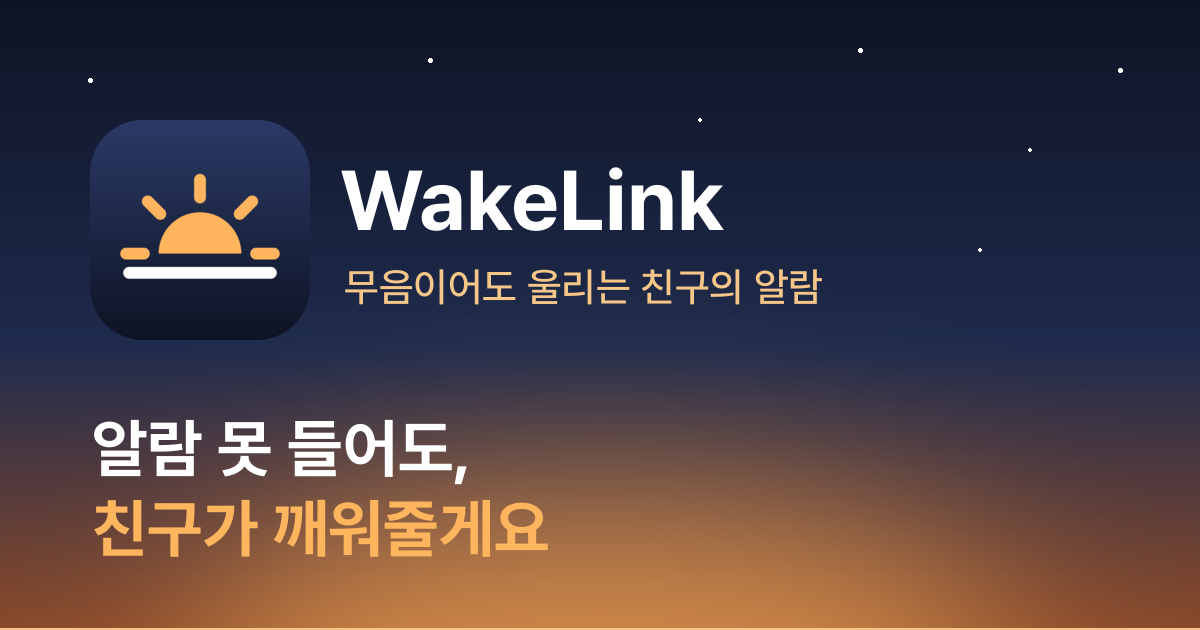
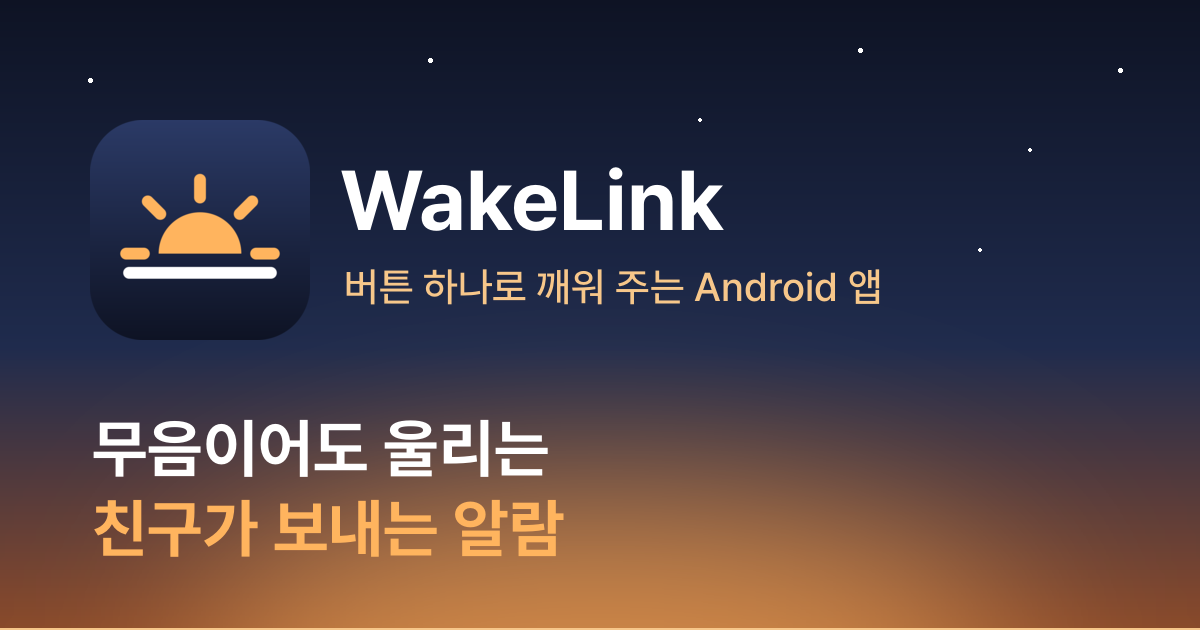
Website: new Korean headline and lighter tone
"무음이어도 울리는 / 친구가 보내는 알람" replaces "알람 못 들어도, 친구가
깨워줄게요" (page, link preview image, README banner alt). Korean copy
follows the app's tone, mockups use the app's new strings, and the update
FAQ (both languages) now mentions the new-version notification.

Changed region(s): [[0.0617, 0.6635, 0.4933, 0.9048], [0.2775, 0.4222, 0.74, 0.4825]]

diff --git a/server/internal/web/templates/ko/index.html b/server/internal/web/templates/ko/index.html
@@ -1,5 +1,5 @@
-{{define "title"}}WakeLink — 알람 못 들어도, 친구가 깨워줄게요{{end}}
-{{define "description"}}무음 모드여도 믿는 사람이 버튼 하나로 내 폰 알람을 울려 깨워주는 Android 앱. 서로 동의한 사람끼리만 연결돼요.{{end}}
+{{define "title"}}WakeLink — 무음이어도 울리는, 친구가 보내는 알람{{end}}
+{{define "description"}}믿는 사람이 버튼 하나로 내 폰에 알람을 울려 주는 Android 앱. 무음 모드에서도 울리고, 서로 동의한 사람끼리만 연결돼요.{{end}}
 {{define "content"}}
 <header class="hero">
   <div class="sky" aria-hidden="true">
@@ -16,8 +16,8 @@
     <div class="hero-grid">
       <div class="hero-copy">
         <p class="eyebrow">알람 끄고 다시 잠든 친구에게</p>
-        <h1><span class="line">알람 못 들어도,</span> <span class="line accent">친구가 깨워줄게요</span></h1>
-        <p class="lead">무음 모드여도 믿는 사람이 버튼 하나로 내 폰에서 큰 알람을 울려줘요. 진짜 울렸는지도 바로 확인돼요.</p>
+        <h1><span class="line">무음이어도 울리는</span> <span class="line accent">친구가 보내는 알람</span></h1>
+        <p class="lead">믿는 사람이 버튼 하나로 내 폰에 큰 알람을 울리고, 실제로 울렸는지까지 바로 확인해요.</p>
         <div class="cta-row">
           <a class="btn btn-primary" href="{{.DownloadHref}}">
             <svg viewBox="0 0 24 24" width="20" height="20" aria-hidden="true"><path fill="currentColor" d="M12 3a1 1 0 0 1 1 1v9.59l3.3-3.3a1 1 0 1 1 1.4 1.42l-5 5a1 1 0 0 1-1.4 0l-5-5a1 1 0 1 1 1.4-1.42l3.3 3.3V4a1 1 0 0 1 1-1ZM5 19a1 1 0 1 0 0 2h14a1 1 0 1 0 0-2H5Z"/></svg>
@@ -33,7 +33,7 @@
           <div class="screen screen-ringing">
             <div class="ring-time">06:42</div>
             <div class="ring-sun"><span></span></div>
-            <p class="ring-who"><b>지민</b>님이 깨우고 있어요</p>
+            <p class="ring-who"><b>지민</b>님이 깨우는 중</p>
             <div class="ring-stop">알람 끄기</div>
           </div>
         </div>
@@ -43,22 +43,22 @@
             <div class="card">
               <div class="card-row">
                 <span class="avatar avatar-1">지</span>
-                <div class="card-text"><b>지민</b><small>서로 깨울 수 있어요</small></div>
+                <div class="card-text"><b>지민</b><small>서로 깨우기 가능</small></div>
               </div>
               <div class="wake-btn">깨우기</div>
-              <div class="pill pill-ok">● 지민님 폰에서 알람이 울리고 있어요</div>
+              <div class="pill pill-ok">● 지민님 폰에서 울리는 중</div>
             </div>
             <div class="card">
               <div class="card-row">
                 <span class="avatar avatar-3">엄</span>
-                <div class="card-text"><b>엄마</b><small>상대만 나를 깨울 수 있어요</small></div>
+                <div class="card-text"><b>엄마</b><small>상대만 깨울 수 있음</small></div>
               </div>
               <div class="wake-btn wake-btn-off">깨우기 꺼져 있음</div>
             </div>
             <div class="card">
               <div class="card-row">
                 <span class="avatar avatar-5">현</span>
-                <div class="card-text"><b>현우</b><small>서로 깨울 수 있어요</small></div>
+                <div class="card-text"><b>현우</b><small>서로 깨우기 가능</small></div>
               </div>
               <div class="wake-btn">깨우기</div>
             </div>
@@ -78,17 +78,17 @@
         <li class="step">
           <span class="step-num">1</span>
           <h3>둘 다 앱 설치</h3>
-          <p>이름만 정하면 돼요. 전화번호도, 이메일도 필요 없어요.</p>
+          <p>이름만 정하면 끝. 전화번호도, 이메일도 필요 없어요.</p>
         </li>
         <li class="step">
           <span class="step-num">2</span>
           <h3>초대 코드로 연결</h3>
-          <p>한 사람이 만든 코드를 다른 사람이 직접 입력해야 연결돼요. 링크로 보내도 돼요.</p>
+          <p>한 사람이 만든 코드를 다른 사람이 직접 입력하면 연결 완료. 링크로 보내도 돼요.</p>
         </li>
         <li class="step">
           <span class="step-num">3</span>
           <h3>깨우기 버튼 한 번</h3>
-          <p>상대 폰에서 알람이 크게 울리고, 실제로 울렸는지 내 화면에 바로 표시돼요.</p>
+          <p>상대 폰에 큰 알람이 울리고, 실제로 울렸는지가 내 화면에 바로 떠요.</p>
         </li>
       </ol>
     </div>
@@ -97,19 +97,19 @@
   <section class="section">
     <div class="wrap">
       <h2>내 소리, 내 사진으로 깨우기</h2>
-      <p class="section-lead">똑같은 알람 소리는 지겨우니까요. 무엇을 울리고 보여줄지 보내는 사람이 고르고, 받는 사람이 허용 범위를 정해요.</p>
+      <p class="section-lead">똑같은 알람 소리는 지겨우니까. 무엇을 울리고 보여 줄지는 보내는 사람이, 허용 범위는 받는 사람이 정해요.</p>
       <div class="features">
         <div class="feature">
           <h3>기본 벨소리 6가지</h3>
-          <p>클래식 비프, 디지털, 차임, 점점 높아지는 음, 종소리, 마림바. 미리 들어보고 고를 수 있어요.</p>
+          <p>클래식 비프, 디지털, 차임, 점점 높아지는 음, 종소리, 마림바 중에서 미리 듣고 선택.</p>
         </div>
         <div class="feature">
           <h3>내 목소리, 내 음악</h3>
-          <p>"일어나!"를 15초까지 녹음하거나, 폰에 있는 오디오 파일을 보낼 수 있어요.</p>
+          <p>"일어나!"를 15초까지 녹음하거나, 폰에 있는 오디오 파일을 그대로 보내기.</p>
         </div>
         <div class="feature">
           <h3>알람 화면에 사진</h3>
-          <p>사진이나 움직이는 GIF를 상대 알람 화면에 띄워요. 카메라로 바로 찍어서 보낼 수도 있어요.</p>
+          <p>사진이나 움직이는 GIF를 상대 알람 화면에. 카메라로 바로 찍어 보낼 수도 있어요.</p>
         </div>
       </div>
     </div>
@@ -120,16 +120,16 @@
       <div>
         <h2>무음 모드여도 울리는 이유</h2>
         <p>폰을 무음으로 해도 시계 앱 알람은 울리죠. 무음 모드는 벨소리와 알림 소리만 끄고 <b>알람 소리는 그대로 두기</b> 때문이에요.</p>
-        <p>WakeLink도 같은 알람 채널로 울려요. 그래서 특별한 권한 없이도 무음·진동 모드를 뚫고 깨울 수 있어요.</p>
-        <p>폰의 알람 볼륨이 작게 되어 있어도 괜찮아요. 울리는 동안은 받는 사람이 정한 WakeLink 볼륨을 쓰고, 끝나면 원래대로 돌려놔요.</p>
-        <p class="muted">방해 금지 모드의 '완전 무음'은 알람까지 막아요. 이것까지 뚫고 싶다면 설정에서 직접 켤 수 있고, 울리는 동안만 바꿨다가 끝나면 원래대로 돌려놔요.</p>
+        <p>WakeLink도 같은 알람 채널을 써서, 특별한 권한 없이 무음·진동 모드에서도 울려요.</p>
+        <p>폰의 알람 볼륨이 작아도, 울리는 동안만 받는 사람이 정한 볼륨으로 바꿨다가 끝나면 되돌려 놓아요.</p>
+        <p class="muted">방해 금지의 '완전 무음'은 알람까지 막아요. 설정에서 켜 두면 이것도 울리는 동안만 풀었다가 다시 돌려놓아요.</p>
       </div>
       <ul class="mode-list" aria-label="모드별 동작">
-        <li><span class="mode-name">소리 모드</span><span class="mode-yes">울려요</span></li>
-        <li><span class="mode-name">진동 모드</span><span class="mode-yes">울려요</span></li>
-        <li><span class="mode-name">무음 모드</span><span class="mode-yes">울려요</span></li>
-        <li><span class="mode-name">방해 금지 (알람 허용)</span><span class="mode-yes">울려요</span></li>
-        <li><span class="mode-name">방해 금지 '완전 무음'</span><span class="mode-opt">설정에서 켜면 울려요</span></li>
+        <li><span class="mode-name">소리 모드</span><span class="mode-yes">울림</span></li>
+        <li><span class="mode-name">진동 모드</span><span class="mode-yes">울림</span></li>
+        <li><span class="mode-name">무음 모드</span><span class="mode-yes">울림</span></li>
+        <li><span class="mode-name">방해 금지 (알람 허용)</span><span class="mode-yes">울림</span></li>
+        <li><span class="mode-name">방해 금지 '완전 무음'</span><span class="mode-opt">설정에서 켜면 울림</span></li>
       </ul>
     </div>
   </section>
@@ -141,27 +141,27 @@
       <div class="features">
         <div class="feature">
           <h3>서로 동의해야 연결</h3>
-          <p>초대 코드를 받은 사람이 직접 입력해야만 연결돼요. 몰래 추가하는 방법은 없어요.</p>
+          <p>초대 코드를 받은 사람이 직접 입력해야만 연결. 몰래 추가하는 방법은 없어요.</p>
         </div>
         <div class="feature">
           <h3>방향별로 따로 허락</h3>
-          <p>"나는 깨울 수 있지만 상대는 나를 못 깨우게"처럼 각자 정할 수 있어요.</p>
+          <p>"나는 깨울 수 있지만 상대는 나를 못 깨우게"처럼 각자 따로 설정.</p>
         </div>
         <div class="feature">
           <h3>언제든 끄거나 끊기</h3>
-          <p>앱 전체를 끄거나, 특정 사람만 막거나, 연결을 아예 끊을 수 있어요.</p>
+          <p>앱 전체 끄기, 특정 사람만 막기, 연결 끊기 모두 언제든 가능.</p>
         </div>
         <div class="feature">
-          <h3>상태가 늘 보여요</h3>
-          <p>지금 깨우기를 받는 중인지 앱 첫 화면 맨 위에 항상 표시되고, 바로 끌 수 있어요.</p>
+          <h3>상태는 늘 첫 화면에</h3>
+          <p>깨우기를 받는 중인지 첫 화면 맨 위에 항상 표시. 거기서 바로 끌 수도 있어요.</p>
         </div>
         <div class="feature">
           <h3>장난 방지</h3>
-          <p>같은 사람에게는 30초에 한 번, 24시간 동안 20번까지만 보낼 수 있어요.</p>
+          <p>같은 사람에게는 30초에 한 번, 24시간에 20번까지만.</p>
         </div>
         <div class="feature">
           <h3>종단간 암호화</h3>
-          <p>보낸 사람 이름, 녹음, 파일, 사진은 받는 사람 폰만 열 수 있게 암호화돼요. 서버는 암호문만 전달하고, 계정을 지우면 모두 삭제돼요.</p>
+          <p>보낸 사람 이름, 녹음, 파일, 사진은 받는 사람 폰만 열 수 있게 암호화. 서버는 암호문만 전달하고, 계정을 지우면 모두 삭제돼요.</p>
         </div>
       </div>
     </div>
@@ -172,7 +172,7 @@
       <h2>자주 묻는 질문</h2>
       <details class="faq">
         <summary>아이폰에서도 쓸 수 있나요?</summary>
-        <p>아직은 Android만 지원해요. 깨우는 사람과 깨워지는 사람 모두 Android 폰에 앱이 있어야 해요.</p>
+        <p>아직은 Android만 지원해요. 깨우는 사람과 깨워지는 사람 모두 Android 폰이 있어야 해요.</p>
       </details>
       <details class="faq">
         <summary>앱은 어떤 언어를 지원하나요?</summary>
@@ -180,19 +180,19 @@
       </details>
       <details class="faq">
         <summary>플레이 스토어에 없는데 설치해도 괜찮나요?</summary>
-        <p>위 버튼으로 받는 APK는 GitHub에 공개된 소스로 빌드되고, 늘 같은 키로 서명돼요. 처음 한 번 브라우저나 파일 앱에 "출처를 알 수 없는 앱 설치"를 허용하면 설치할 수 있어요.</p>
+        <p>위 버튼으로 받는 APK는 GitHub에 공개된 소스로 빌드되고, 늘 같은 키로 서명돼요. 처음 한 번만 브라우저나 파일 앱에 "출처를 알 수 없는 앱 설치"를 허용하면 돼요.</p>
       </details>
       <details class="faq">
         <summary>업데이트는 어떻게 하나요?</summary>
-        <p>앱을 열 때 새 버전이 있으면 알려줘요. 누르면 바로 내려받아 설치 화면이 열려요. 설정 → 앱 업데이트에서 직접 확인할 수도 있어요.</p>
+        <p>새 버전이 나오면 알림이 오고, 누르면 바로 설치 화면까지 열려요. 설정 → 앱 업데이트에서 직접 확인도 가능.</p>
       </details>
       <details class="faq">
         <summary>배터리 절약 때문에 안 울리면 어떡하죠?</summary>
-        <p>앱이 처음 켜질 때 알림, 잠금 화면 전체 화면 알람, 배터리 최적화 제외를 하나씩 안내해요. 나중에 꺼지면 앱을 열 때 다시 알려줘요. 삼성 폰은 '절전 앱' 목록에서도 빼 주세요.</p>
+        <p>앱을 처음 켜면 알림, 잠금 화면 전체 화면 알람, 배터리 최적화 제외를 차례로 안내하고, 나중에 꺼지면 다시 알려 줘요. 삼성 폰은 '절전 앱' 목록에서도 빼 주세요.</p>
       </details>
       <details class="faq">
         <summary>보낸 사진과 녹음은 누가 볼 수 있나요?</summary>
-        <p>깨우기를 받는 사람만요. 올리기 전에 내 폰에서 암호화되고, 그 열쇠는 깨울 때 받는 사람 폰만 열 수 있게 다시 암호화해서 보내요. 서버와 푸시 알림을 전달하는 Google은 내용을 볼 수 없어요. 계정을 지우면 서버에서도 삭제돼요.</p>
+        <p>깨우기를 받는 사람만요. 올리기 전에 내 폰에서 암호화되고, 그 열쇠는 받는 사람 폰만 열 수 있게 봉인해서 보내요. 서버도, 푸시를 전달하는 Google도 내용을 볼 수 없고, 계정을 지우면 서버에서도 지워져요.</p>
       </details>
       <details class="faq">
         <summary>폰을 재부팅하고 잠금을 아직 안 풀었어도 울리나요?</summary>
@@ -200,7 +200,7 @@
       </details>
       <details class="faq">
         <summary>깨우기를 보냈는데 상대 폰이 꺼져 있으면요?</summary>
-        <p>보낸 쪽 화면에 "울림 미확인"으로 표시돼요. 상대 폰에서 실제로 소리가 나기 시작해야만 "울림 확인됨"이 떠요.</p>
+        <p>보낸 쪽 화면에 "울림 미확인"으로 표시돼요. 상대 폰에서 소리가 실제로 나야만 "울림 확인됨"으로 바뀌어요.</p>
       </details>
       <details class="faq">
         <summary>제 서버에서 직접 운영할 수 있나요?</summary>
@@ -213,7 +213,7 @@
     <div class="wrap narrow center">
       <img src="{{asset "logo.svg"}}" alt="" width="72" height="72">
       <h2>내일 아침이 걱정된다면</h2>
-      <p>깨워줄 사람과 같이 설치해 두세요.</p>
+      <p>깨워 줄 사람과 같이 설치해 두세요.</p>
       <a class="btn btn-primary" href="{{.DownloadHref}}">Android 앱 받기</a>
     </div>
   </section>

diff --git a/server/internal/web/templates/ko/invite.html b/server/internal/web/templates/ko/invite.html
@@ -1,5 +1,5 @@
-{{define "title"}}WakeLink 초대가 도착했어요{{end}}
-{{define "description"}}함께 WakeLink를 쓰자는 초대예요. 앱에서 열고 '연결하기'를 누르면 서로 깨워줄 수 있어요.{{end}}
+{{define "title"}}WakeLink 초대 도착{{end}}
+{{define "description"}}함께 WakeLink를 쓰자는 초대. 앱에서 열고 '연결하기'를 누르면 서로 깨울 수 있어요.{{end}}
 {{define "content"}}
 <header class="hero hero-compact">
   <div class="sky" aria-hidden="true">
@@ -19,14 +19,14 @@
   <div class="wrap narrow">
     <section class="invite-card">
       <h1>WakeLink 초대가 도착했어요</h1>
-      <p class="lead">연결하면 서로 무음 모드여도 알람을 울려 깨워줄 수 있어요. 연결은 앱에서 직접 <b>연결하기</b>를 눌러야만 돼요.</p>
+      <p class="lead">연결하면 무음 모드에서도 서로 알람을 울릴 수 있어요. 연결은 앱에서 직접 <b>연결하기</b>를 눌러야만 이뤄져요.</p>
 
       <p class="code-label">초대 코드</p>
       <div class="code-box">
         <code class="code" id="invite-code">{{.Code}}</code>
         <button class="btn btn-small" type="button" id="copy-code" data-code="{{.Code}}" data-copied="복사됨">복사</button>
       </div>
-      <p class="muted small">코드는 잠시 후 만료돼요. 만료됐다면 새 코드를 달라고 하세요.</p>
+      <p class="muted small">곧 만료되는 코드예요. 만료됐다면 새 코드를 받아 주세요.</p>
 
       <div class="invite-steps">
         <div class="invite-step">

diff --git a/server/internal/web/templates/en/index.html b/server/internal/web/templates/en/index.html
@@ -184,7 +184,7 @@
       </details>
       <details class="faq">
         <summary>How do updates work?</summary>
-        <p>When a new version is out, the app tells you when you open it. One tap downloads it and opens the installer. You can also check yourself under Settings → App updates.</p>
+        <p>When a new version is out, you get a notification, and one tap downloads it and opens the installer. You can also check yourself under Settings → App updates.</p>
       </details>
       <details class="faq">
         <summary>What if battery saving stops it from ringing?</summary>

diff --git a/README.ko.md b/README.ko.md
@@ -1,5 +1,5 @@
 <p align="center">
-  <a href="https://wake.seolcu.com"><img src="server/internal/web/assets/og.png" alt="WakeLink — 알람 못 들어도, 친구가 깨워줄게요" width="720"></a>
+  <a href="https://wake.seolcu.com"><img src="server/internal/web/assets/og.png" alt="WakeLink — 무음이어도 울리는, 친구가 보내는 알람" width="720"></a>
 </p>
 
 <p align="center">
